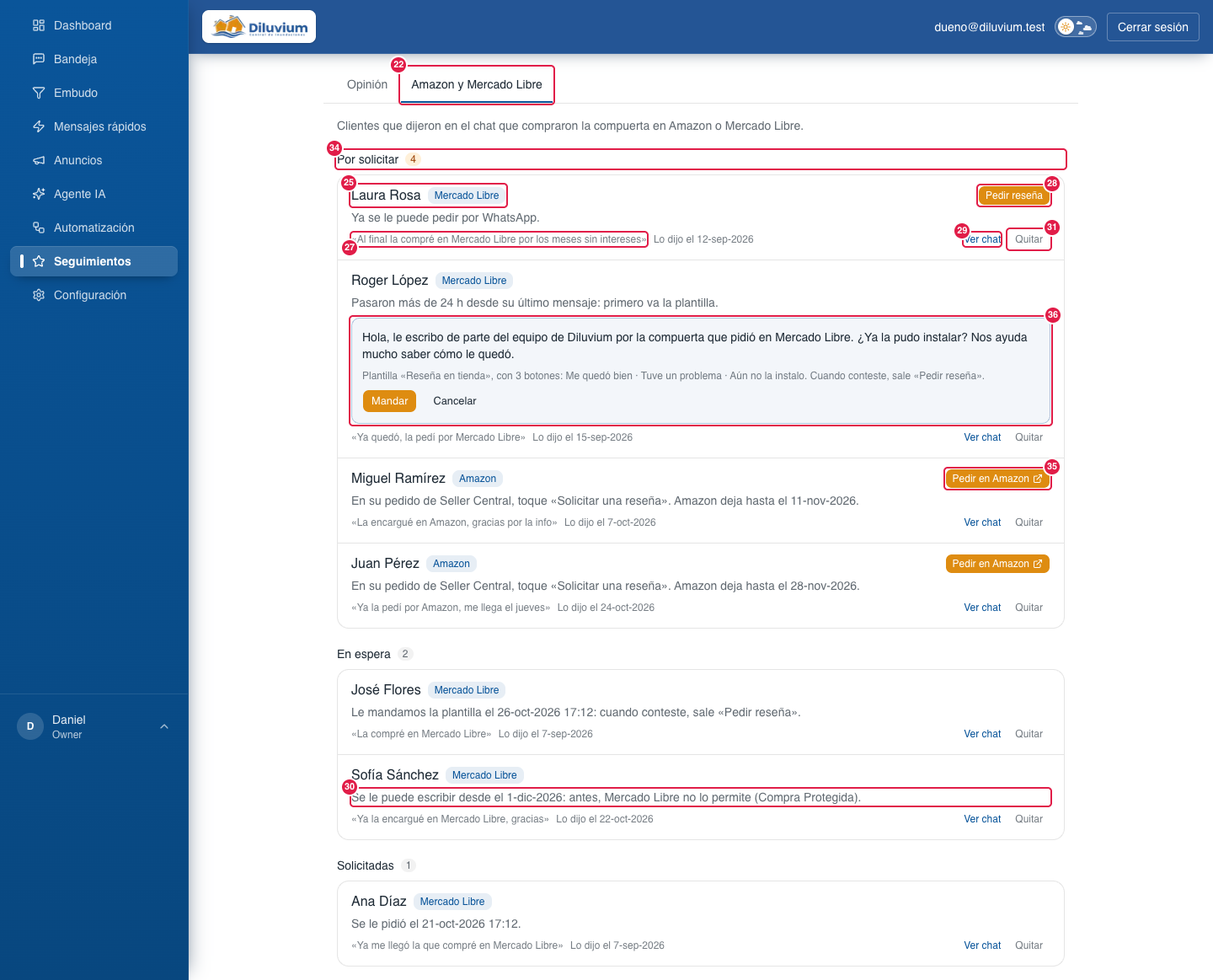
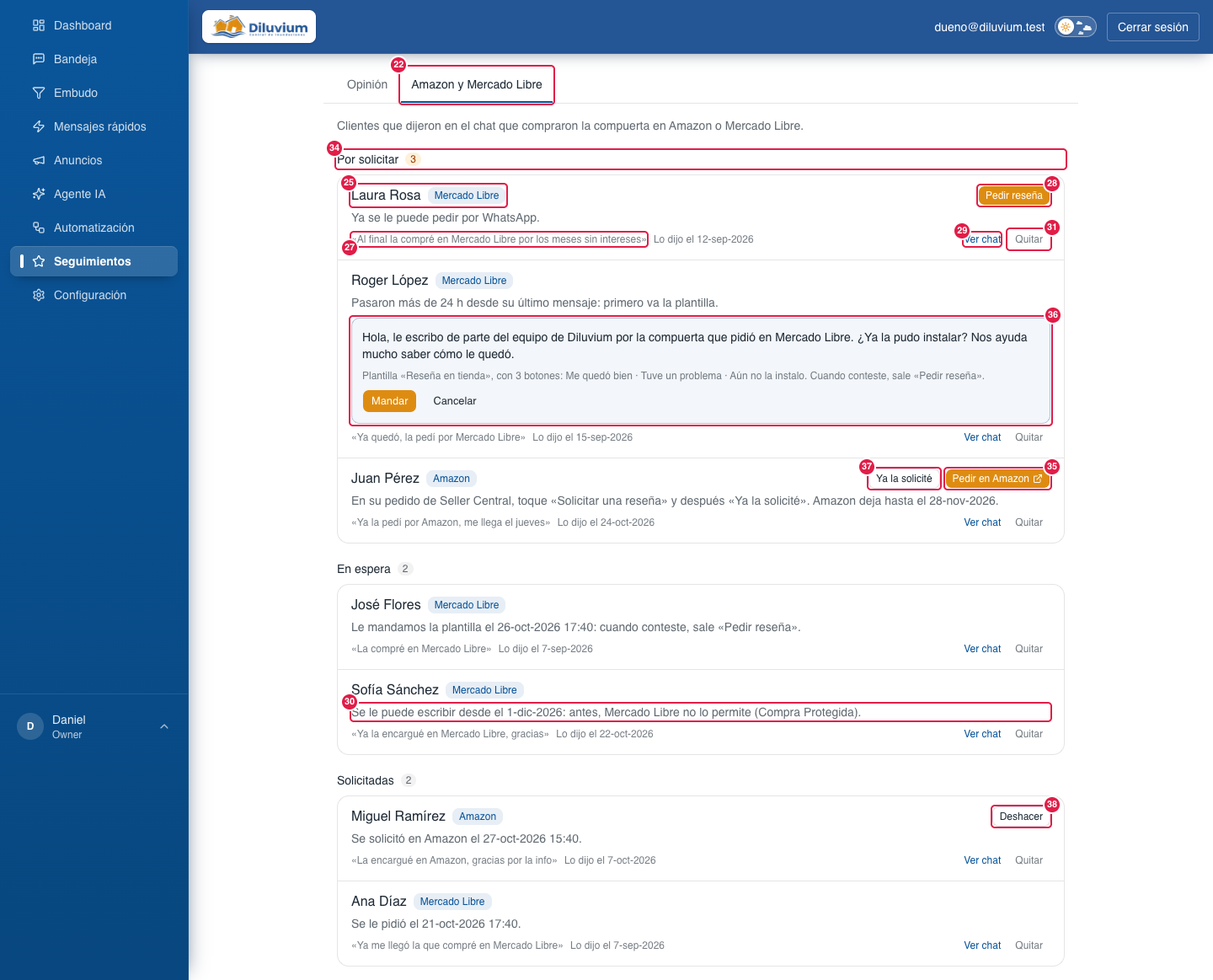
feat(seguimientos): Amazon — «Ya la solicité» con confirmación y «Deshacer»
La reseña de Amazon se pide en Seller Central, fuera del CRM; el dueño necesita dejar constancia (ya pidió la de un
cliente). Después de tocar «Sí» en Amazon, «Ya la solicité» pregunta con el aviso de arriba del CRM y pasa al cliente a
Solicitadas («Se solicitó en Amazon el …»); ahí «Deshacer» lo regresa a Por solicitar (regresarAPorPedir: solo Amazon y
solo si estaba solicitada). Una de Amazon solicitada se queda en Solicitadas aunque pase su plazo. Mapa 3.11 (33, 34 y 35
al día; nuevos 37 y 38) y captura 17; opiniones.md § 7.

diff --git a/app/(app)/seguimientos/_components/tiendas-panel.tsx b/app/(app)/seguimientos/_components/tiendas-panel.tsx
@@ -6,7 +6,7 @@ import { useRouter } from "next/navigation";
 import { ExternalLink } from "lucide-react";
 import { Button, buttonVariants } from "@/components/ui/button";
 import { TopConfirm, TopNotice } from "@/components/ui/top-confirm";
-import { mandarPlantillaResena, pedirResena, quitarResena } from "@/lib/actions/resenas-tienda";
+import { deshacerSolicitada, mandarPlantillaResena, pedirResena, quitarResena, yaLaSolicite } from "@/lib/actions/resenas-tienda";
 import { cn } from "@/lib/utils";
 import { SELLER_CENTRAL_PEDIDOS, type ResenaVista, type SeccionResena } from "@/lib/resenas-tienda/vista";
 import { TONOS } from "./opinion-panel";
@@ -14,7 +14,8 @@ import { TONOS } from "./opinion-panel";
 // Seguimientos › Amazon y Mercado Libre (27-oct-2026, docs/opiniones.md): los clientes que
 // dijeron en el chat que compraron en una de esas tiendas (los anota el lector), en tres
 // secciones según lo que se puede hacer hoy y con UNA acción cada uno. Amazon se pide en Seller
-// Central; Mercado Libre, con el texto fijo o la plantilla, cuando su tienda lo permite.
+// Central y aquí se marca «Ya la solicité» (pregunta antes; en Solicitadas tiene «Deshacer»);
+// Mercado Libre, con el texto fijo o la plantilla, cuando su tienda lo permite.
 const SECCIONES: ReadonlyArray<{ id: SeccionResena; titulo: string }> = [
   { id: "pedir", titulo: "Por solicitar" },
   { id: "espera", titulo: "En espera" },
@@ -29,7 +30,8 @@ export function TiendasPanel({ resenas, puedeEditar }: { resenas: ResenaVista[];
   const [aviso, setAviso] = useState<string | null>(null);
   const [listo, setListo] = useState<string | null>(null);
   const [viendo, setViendo] = useState<string | null>(null);
-  const [quitando, setQuitando] = useState<ResenaVista | null>(null);
+  // Lo que pide confirmación con el aviso de arriba: quitarlo de la lista o marcar la de Amazon.
+  const [confirmando, setConfirmando] = useState<{ que: "quitar" | "solicitada"; r: ResenaVista } | null>(null);
 
   function correr(accion: () => Promise<{ ok: true } | { ok: false; message: string }>, hecho: string) {
     setAviso(null);
@@ -38,7 +40,7 @@ export function TiendasPanel({ resenas, puedeEditar }: { resenas: ResenaVista[];
       const r = await accion();
       if (r.ok) {
         setViendo(null);
-        setQuitando(null);
+        setConfirmando(null);
         setListo(hecho);
         router.refresh();
       } else setAviso(r.message);
@@ -88,7 +90,9 @@ export function TiendasPanel({ resenas, puedeEditar }: { resenas: ResenaVista[];
                     viendo={viendo === r.id}
                     onVer={() => setViendo(viendo === r.id ? null : r.id)}
                     onMandar={() => mandar(r)}
-                    onQuitar={() => setQuitando(r)}
+                    onQuitar={() => setConfirmando({ que: "quitar", r })}
+                    onSolicitada={() => setConfirmando({ que: "solicitada", r })}
+                    onDeshacer={() => correr(() => deshacerSolicitada({ id: r.id }), `${r.titulo} regresó a «Por solicitar».`)}
                   />
                 ))}
               </ul>
@@ -97,19 +101,31 @@ export function TiendasPanel({ resenas, puedeEditar }: { resenas: ResenaVista[];
         })
       )}
 
-      {quitando && (
+      {confirmando?.que === "quitar" && (
         <TopConfirm
-          title={`¿Quitar a ${quitando.titulo} de la lista?`}
+          title={`¿Quitar a ${confirmando.r.titulo} de la lista?`}
           confirmLabel="Quitar"
           pendingLabel="Quitando…"
           pending={ocupado}
-          onConfirm={() => correr(() => quitarResena({ id: quitando.id }), `${quitando.titulo} salió de la lista.`)}
-          onCancel={() => setQuitando(null)}
+          onConfirm={() => correr(() => quitarResena({ id: confirmando.r.id }), `${confirmando.r.titulo} salió de la lista.`)}
+          onCancel={() => setConfirmando(null)}
         >
           No se le pedirá la reseña y el Agente IA ya no lo vuelve a anotar.
         </TopConfirm>
       )}
-      <TopNotice message={quitando ? null : listo} />
+      {confirmando?.que === "solicitada" && (
+        <TopConfirm
+          title={`¿Ya tocaste «Sí» en Amazon para el pedido de ${confirmando.r.titulo}?`}
+          confirmLabel="Sí, ya la solicité"
+          pendingLabel="Guardando…"
+          pending={ocupado}
+          onConfirm={() => correr(() => yaLaSolicite({ id: confirmando.r.id }), `${confirmando.r.titulo} pasó a «Solicitadas».`)}
+          onCancel={() => setConfirmando(null)}
+        >
+          Pasa a «Solicitadas». Amazon deja pedirla una sola vez por pedido.
+        </TopConfirm>
+      )}
+      <TopNotice message={confirmando ? null : listo} />
     </div>
   );
 }
@@ -122,6 +138,8 @@ function Fila({
   onVer,
   onMandar,
   onQuitar,
+  onSolicitada,
+  onDeshacer,
 }: {
   r: ResenaVista;
   puedeEditar: boolean;
@@ -130,6 +148,8 @@ function Fila({
   onVer: () => void;
   onMandar: () => void;
   onQuitar: () => void;
+  onSolicitada: () => void;
+  onDeshacer: () => void;
 }) {
   return (
     <li className="flex flex-col gap-1 px-4 py-3">
@@ -138,7 +158,21 @@ function Fila({
           <span className="truncate">{r.titulo}</span>
           <span className={`shrink-0 rounded-md px-2 py-0.5 text-xs font-normal ${TONOS.marca}`}>{r.tienda}</span>
         </p>
-        {puedeEditar && <Accion r={r} ocupado={ocupado} viendo={viendo} onVer={onVer} />}
+        {puedeEditar && (
+          <span className="flex shrink-0 items-center gap-1.5">
+            {r.marca === "solicitada" && (
+              <Button variant="outline" size="xs" disabled={ocupado} onClick={onSolicitada}>
+                Ya la solicité
+              </Button>
+            )}
+            {r.marca === "deshacer" && (
+              <Button variant="outline" size="xs" disabled={ocupado} onClick={onDeshacer}>
+                Deshacer
+              </Button>
+            )}
+            <Accion r={r} ocupado={ocupado} viendo={viendo} onVer={onVer} />
+          </span>
+        )}
       </div>
       <p className="text-sm text-foreground/70">{r.aviso}</p>
 

diff --git a/lib/resenas-tienda/vista.ts b/lib/resenas-tienda/vista.ts
@@ -1,6 +1,7 @@
 // Cómo se ve cada cliente en Seguimientos › Amazon y Mercado Libre (docs/opiniones.md § Amazon
 // y Mercado Libre). Puro; el servidor lo arma y el panel solo pinta. Cada cliente cae en UNA
-// sección con UNA acción, según las reglas de su tienda (sin marcarlo a mano).
+// sección con UNA acción, según las reglas de su tienda. Solo la de Amazon se marca a mano («Ya la
+// solicité», con su «Deshacer»), porque se pide fuera del CRM.
 import { zoneForPhone } from "@/lib/followups/timezone";
 import { formatMazatlan } from "@/lib/historial/labels";
 import { canSendFreeForm } from "@/lib/messaging/rules";
@@ -8,11 +9,14 @@ import { mensajeResena, textoPlantillaResena } from "./mensaje";
 import type { ResenaFila } from "./queries";
 import { TIENDA_NOMBRE } from "./tiendas";
 
-/** Por solicitar: se puede hoy. En espera: todavía no (dice desde cuándo o qué falta). Solicitadas: salió el texto. */
+/** Por solicitar: se puede hoy. En espera: todavía no (dice desde cuándo o qué falta). Solicitadas: salió el texto o se solicitó en Amazon. */
 export type SeccionResena = "pedir" | "espera" | "pedida";
 
 /** amazon = abrir Seller Central; texto = mandar el texto fijo; plantilla = mandar «Reseña en tienda». */
 export type AccionResena = "amazon" | "texto" | "plantilla";
+
+/** Solo Amazon: «Ya la solicité» (después de pedirla en Seller Central) y su «Deshacer». */
+export type MarcaResena = "solicitada" | "deshacer";
 
 export type ResenaVista = {
   id: string;
@@ -23,6 +27,7 @@ export type ResenaVista = {
   dicho: string;
   seccion: SeccionResena;
   accion: AccionResena | null;
+  marca: MarcaResena | null;
   /** Una línea: qué hacer o por qué todavía no. */
   aviso: string;
   /** Lo que saldría (texto o plantilla), para verlo antes de mandarlo. */
@@ -57,7 +62,7 @@ const DIA_MS = 24 * 60 * 60 * 1000;
 const masDias = (at: Date, dias: number) => new Date(at.getTime() + dias * DIA_MS);
 const soloFecha = (at: Date) => formatMazatlan(at).split(" ")[0];
 
-type Paso = { seccion: SeccionResena; accion: AccionResena | null; aviso: string; orden: number };
+type Paso = { seccion: SeccionResena; accion: AccionResena | null; marca?: MarcaResena; aviso: string; orden: number };
 
 /** Dónde está cada cliente hoy. null = de Amazon y ya pasó su plazo: ya no sale en la lista. */
 export function pasoDe(
@@ -65,12 +70,18 @@ export function pasoDe(
   now: Date,
 ): Paso | null {
   if (f.tienda === "amazon") {
+    // Amazon la deja pedir una sola vez por pedido: ya marcada, se queda en Solicitadas.
+    if (f.estado !== "por_pedir") {
+      const cuando = f.pedidaAt ?? f.createdAt;
+      return { seccion: "pedida", accion: null, marca: "deshacer", aviso: `Se solicitó en Amazon el ${formatMazatlan(cuando)}.`, orden: -cuando.getTime() };
+    }
     const hasta = masDias(f.createdAt, DIAS_AMAZON);
     if (now >= hasta) return null;
     return {
       seccion: "pedir",
       accion: "amazon",
-      aviso: `En su pedido de Seller Central, toque «Solicitar una reseña». Amazon deja hasta el ${soloFecha(hasta)}.`,
+      marca: "solicitada",
+      aviso: `En su pedido de Seller Central, toque «Solicitar una reseña» y después «Ya la solicité». Amazon deja hasta el ${soloFecha(hasta)}.`,
       orden: hasta.getTime(),
     };
   }
@@ -127,6 +138,7 @@ export function resenaVista(f: ResenaFila, now: Date): ResenaVista | null {
     frase: f.frase,
     dicho: `Lo dijo el ${soloFecha(f.createdAt)}`,
     ...paso,
+    marca: paso.marca ?? null,
     mensaje:
       paso.accion === "texto"
         ? mensajeResena(f.tienda, now, zoneForPhone(f.telefono))

diff --git a/lib/actions/resenas-tienda.ts b/lib/actions/resenas-tienda.ts
@@ -2,7 +2,8 @@
 
 // Acciones de Seguimientos › Amazon y Mercado Libre (docs/opiniones.md § Amazon y Mercado
 // Libre). Solo Mercado Libre se pide por WhatsApp: el texto fijo con la ventana abierta o la
-// plantilla «Reseña en tienda» con la ventana cerrada (la de Amazon se pide en Seller Central).
+// plantilla «Reseña en tienda» con la ventana cerrada. La de Amazon se pide en Seller Central y
+// aquí solo se marca («Ya la solicité») o se deshace.
 // Cada acción revisa en el servidor que su paso sea el de hoy (`pasoDe`). La organización sale
 // de la sesión; mismos permisos que Opinión (ACL `opinion`).
 import { revalidatePath } from "next/cache";
@@ -21,7 +22,7 @@ import { syncTemplatesForOrg } from "@/lib/messaging/templates";
 import { enqueueOutboxSend } from "@/lib/queue/outbox";
 import { mensajeResena } from "@/lib/resenas-tienda/mensaje";
 import { plantillaResenaId, resenaTienda, type ResenaFila } from "@/lib/resenas-tienda/queries";
-import { cambiarEstadoResena, marcarPedida } from "@/lib/resenas-tienda/store";
+import { cambiarEstadoResena, marcarPedida, regresarAPorPedir } from "@/lib/resenas-tienda/store";
 import { TIENDA_NOMBRE } from "@/lib/resenas-tienda/tiendas";
 import { pasoDe, type AccionResena } from "@/lib/resenas-tienda/vista";
 
@@ -141,6 +142,40 @@ export async function mandarPlantillaResena(input: { id: string }): Promise<Agen
     if (error instanceof ZodError) return { ok: false, message: "Cliente no válido." };
     logError("[resenas-tienda] no se pudo mandar la plantilla", error);
     return { ok: false, message: "No se pudo confirmar el envío. Revisa su chat antes de intentar otra vez." };
+  }
+}
+
+/** Amazon: el vendedor ya tocó «Solicitar una reseña» › «Sí» en Seller Central; pasa a Solicitadas. */
+export async function yaLaSolicite(input: { id: string }): Promise<AgentActionResult> {
+  try {
+    const listo = await paraAccion(input, "amazon");
+    if (!("m" in listo)) return listo;
+    const { m, fila, now } = listo;
+    await marcarPedida(m.organizationId, fila.id, m.userId, now);
+    revalidatePath(RUTA);
+    return { ok: true };
+  } catch (error) {
+    if (error instanceof ZodError) return { ok: false, message: "Cliente no válido." };
+    logError("[resenas-tienda] no se pudo marcar la de Amazon", error);
+    return { ok: false, message: "No se pudo guardar. Intenta de nuevo." };
+  }
+}
+
+/** Amazon: «Deshacer» de «Ya la solicité» (si se marcó por error); regresa a Por solicitar. */
+export async function deshacerSolicitada(input: { id: string }): Promise<AgentActionResult> {
+  try {
+    const { id } = idSchema.parse(input);
+    const m = await conPermiso();
+    if (!m) return { ok: false, message: "No tienes permiso para cambiar la lista." };
+    if (!(await regresarAPorPedir(m.organizationId, id))) {
+      return { ok: false, message: "Ese cliente ya no está en Solicitadas." };
+    }
+    revalidatePath(RUTA);
+    return { ok: true };
+  } catch (error) {
+    if (error instanceof ZodError) return { ok: false, message: "Cliente no válido." };
+    logError("[resenas-tienda] no se pudo deshacer la de Amazon", error);
+    return { ok: false, message: "No se pudo guardar. Intenta de nuevo." };
   }
 }
 

diff --git a/lib/resenas-tienda/vista.test.ts b/lib/resenas-tienda/vista.test.ts
@@ -27,17 +27,29 @@ function fila(over: Partial<ResenaFila> = {}): ResenaFila {
   };
 }
 
-describe("Amazon: se pide en Seller Central, sin marcar nada a mano", () => {
-  it("sale para pedir con el botón a Seller Central y la fecha límite, aunque alguien la haya marcado como pedida", () => {
-    for (const estado of ["por_pedir", "pedida"] as const) {
-      const v = resenaVista(fila({ tienda: "amazon", estado, createdAt: new Date("2026-10-13T21:00:00Z"), frase: "Disculpe lo pedí por Amazon" }), NOW);
-      expect(v).toMatchObject({ tienda: "Amazon", seccion: "pedir", accion: "amazon", mensaje: null });
-      expect(v?.aviso).toBe("En su pedido de Seller Central, toque «Solicitar una reseña». Amazon deja hasta el 17-nov-2026.");
+describe("Amazon: se pide en Seller Central y aquí se marca", () => {
+  const amazon = { tienda: "amazon" as const, createdAt: new Date("2026-10-13T21:00:00Z"), frase: "Disculpe lo pedí por Amazon" };
+
+  it("por solicitar: botón a Seller Central, «Ya la solicité» y la fecha límite", () => {
+    const v = resenaVista(fila(amazon), NOW);
+    expect(v).toMatchObject({ tienda: "Amazon", seccion: "pedir", accion: "amazon", marca: "solicitada", mensaje: null });
+    expect(v?.aviso).toBe("En su pedido de Seller Central, toque «Solicitar una reseña» y después «Ya la solicité». Amazon deja hasta el 17-nov-2026.");
+  });
+
+  it("ya solicitada: en Solicitadas con la fecha y «Deshacer», aunque haya pasado su plazo", () => {
+    const pedida = { ...amazon, estado: "pedida" as const, pedidaAt: new Date("2026-10-27T23:37:00Z") };
+    for (const now of [NOW, new Date("2026-12-01T00:00:00Z")]) {
+      expect(resenaVista(fila(pedida), now)).toMatchObject({ seccion: "pedida", accion: null, marca: "deshacer", aviso: "Se solicitó en Amazon el 27-oct-2026 16:37." });
     }
   });
 
-  it("pasado su plazo (35 días desde que lo dijo) ya no sale", () => {
+  it("pasado su plazo (35 días desde que lo dijo) sin solicitar, ya no sale", () => {
     expect(resenaVista(fila({ tienda: "amazon", createdAt: new Date(NOW.getTime() - 35 * DIA) }), NOW)).toBeNull();
+  });
+
+  it("Mercado Libre no se marca a mano", () => {
+    expect(resenaVista(fila(), NOW)?.marca).toBeNull();
+    expect(resenaVista(fila({ estado: "pedida", pedidaAt: NOW }), NOW)?.marca).toBeNull();
   });
 });
 

diff --git a/lib/resenas-tienda/store.int.test.ts b/lib/resenas-tienda/store.int.test.ts
@@ -104,6 +104,21 @@ describe.skipIf(!TEST_DATABASE_URL)("reseñas en Amazon y Mercado Libre (Postgre
     expect(await store.cambiarEstadoResena(OTRA, pedro.id, "la_dejo")).toBe(false);
   });
 
+  it("«Deshacer» de Amazon: solo una de Amazon ya solicitada regresa a por pedir, y nunca la de otra organización", async () => {
+    await anotar();
+    const [fila] = await queries.listarResenasTienda(ORG);
+    expect(await store.regresarAPorPedir(ORG, fila.id, NOW)).toBe(false); // todavía no estaba solicitada
+    await store.marcarPedida(ORG, fila.id, "u_rt", NOW);
+    expect(await store.regresarAPorPedir(OTRA, fila.id, NOW)).toBe(false);
+    expect(await store.regresarAPorPedir(ORG, fila.id, NOW)).toBe(true);
+    expect(await queries.resenaTienda(ORG, fila.id)).toMatchObject({ estado: "por_pedir", pedidaAt: null });
+
+    await anotar({ contactId: "c_lucia", conversationId: null, tienda: "mercado_libre", frase: null });
+    const lucia = (await queries.listarResenasTienda(ORG)).find((f) => f.contactId === "c_lucia")!;
+    await store.marcarPedida(ORG, lucia.id, "u_rt", NOW);
+    expect(await store.regresarAPorPedir(ORG, lucia.id, NOW)).toBe(false); // Mercado Libre: el texto ya salió
+  });
+
   it("sabe cuándo salió la plantilla «Reseña en tienda» en ese chat (no las de antes ni las que fallaron)", async () => {
     await anotar({ tienda: "mercado_libre", frase: "Ya la pedí en Mercado Libre" });
     const plantilla = (id: string, at: Date, status: "sent" | "failed", templateName = "resena_tienda") => ({

diff --git a/lib/resenas-tienda/store.ts b/lib/resenas-tienda/store.ts
@@ -81,3 +81,20 @@ export async function marcarPedida(organizationId: string, id: string, userId: s
     .set({ estado: "pedida", pedidaAt: now, pedidaPorUserId: userId, updatedAt: now })
     .where(and(eq(resenasTienda.id, id), eq(resenasTienda.organizationId, organizationId)));
 }
+
+/** «Deshacer» de Amazon: la que se marcó como solicitada por error regresa a por pedir. */
+export async function regresarAPorPedir(organizationId: string, id: string, now = new Date()): Promise<boolean> {
+  const filas = await db
+    .update(resenasTienda)
+    .set({ estado: "por_pedir", pedidaAt: null, pedidaPorUserId: null, updatedAt: now })
+    .where(
+      and(
+        eq(resenasTienda.id, id),
+        eq(resenasTienda.organizationId, organizationId),
+        eq(resenasTienda.tienda, "amazon"),
+        eq(resenasTienda.estado, "pedida"),
+      ),
+    )
+    .returning({ id: resenasTienda.id });
+  return filas.length > 0;
+}

diff --git a/docs/mapa-crm/1-glosario.md b/docs/mapa-crm/1-glosario.md
@@ -59,7 +59,7 @@
 | **Seguimiento del Agente IA** | Cuando un chat se queda parado (el último mensaje es nuestro y el cliente no contesta), el Agente IA en segundo plano anota **qué quedó pendiente** (uno de 10 casos: faltan medidas, cotización sin respuesta, pago pendiente…), **a qué hora** escribirle (la del caso, en la hora del cliente según su lada, de 7:00 a 21:00) y un **borrador**. Se ve en la píldora 🤖 de la caja para escribir, que **siempre está** en todos los chats (7-oct-2026): sin nada que seguir sale el **robot dormido gris**, sin palabra, y su ventana explica por qué. Hasta 3 intentos (día 1 con texto antes de que cierre la ventana, día 2 y día 9 con plantilla); si el cliente escribe, se cancela solo. Solo a números de México (+52) y +1: a una lada de otro país nunca se le da seguimiento (13-oct-2026). Si un vendedor puso **Pausar agente** a mano, queda como **sugerencia**. Un seguimiento que ya mandó un **vendedor** (horas después, sin respuesta) **cuenta como intento**: el CRM programa el siguiente, no otro encima. Si el contacto pasa a **Compra**, se cancela en ese momento. El borrador nunca repite una pregunta que ya se hizo ni el precio que ya se le dio, y hace una sola pregunta. Con la ventana cerrada usa la plantilla que **mejor encaje con cómo quedó el chat** (seg_precio, seg_informacion, seg_info_duda, seg_valorar, seg_medidas, seg_asesor, seg_objecion o el saludo; las 5 primeras dicen «…que nos comentó **anoche**» con el cuándo puesto por el CRM) en cuanto Meta la aprueba. Se enciende en Agente IA › Opciones › **Seguimientos del Agente IA** (84): **Ensayo** (de fábrica) calcula todo y lo muestra en la píldora sin mandar nada; **Real** lo manda a su hora como mensaje del Agente IA (sin pausarlo). Si el cliente contesta con el Agente IA en pausa automática, la conversación sigue con el Agente IA. Tras el último intento sin respuesta, la temperatura pasa a **frío**; en pago pendiente (24 h después del 2.º) y asesor sin respuesta (al final) deja la tarjeta amarilla. Si el cliente se dio de baja de las promociones (error 131050 de WhatsApp), ese contacto queda **sin seguimientos**: la píldora se pone roja («Se dio de baja») y su aviso se abre solo una vez, con **Volver a darle seguimiento** (Caja para escribir › 64). **Cancelar** apaga los seguimientos de ese chat hasta que alguien pulse **Reactivar seguimientos** (63). Qué casos están encendidos, qué intentos salen, a qué hora y qué busca cada uno, y el horario de los vendedores, se editan en Agente IA › **Seguimientos** (85; desde el 6-oct-2026). Diseño: `docs/seguimientos.md`. |
 | **Seguimientos (pestaña del menú)** | Lo que sigue **después de la compra** (8-oct-2026). Tiene dos subpestañas: **Opinión** y **Amazon y Mercado Libre** (27-oct-2026). Es otra cosa que Agente IA › Seguimientos (los mensajes que escribe el Agente IA cuando un chat se queda parado). Ver 3.11. |
 | **Opinión** | Formulario de 4 preguntas que el cliente contesta desde su celular en una **página aparte** del CRM, sin usuario ni contraseña (`…/opinion/<enlace>`): estrellas, «¿Qué le diría a alguien que está pensando comprarla?», si ya le tocó una lluvia y si se puede compartir su opinión (con su nombre, sin su nombre o no). Al final, para todos: mandar foto o video por WhatsApp, compartir con un vecino y reseña en Google. Cada enlace se contesta **una sola vez** y vence a los 60 días. Las respuestas se ven en Seguimientos › Opinión. Desde el 8-oct-2026, con **enlaces de prueba**; mandarlo a los clientes 7 días después de pagar el total (plantilla `opinion_compuerta`) viene después. Diseño: `docs/opiniones.md`. |
-| **Reseñas en Amazon y Mercado Libre** | Para el cliente que dijo en el chat que **ya compró** la compuerta en Amazon o Mercado Libre (27-oct-2026). El Agente IA en segundo plano lo anota al leer el chat, solo si el cliente nombra esa tienda, y aparece en Seguimientos › **Amazon y Mercado Libre**. Ahí cada cliente está en **Por solicitar**, **En espera** o **Solicitadas**, con una sola acción. A los de **Amazon** se les pide con **Pedir en Amazon** (Seller Central, «Solicitar una reseña»): Amazon no deja escribirles por fuera. A los de **Mercado Libre**, desde los 40 días (antes Mercado Libre no deja escribirles por fuera), un vendedor les manda un **texto fijo** (sin IA) que les pide su opinión con foto o video, sin ofrecer nada a cambio; si no han escrito en 24 h, primero la plantilla **Reseña en tienda**. Diseño: `docs/opiniones.md`. Ver 3.11 › 22–36. |
+| **Reseñas en Amazon y Mercado Libre** | Para el cliente que dijo en el chat que **ya compró** la compuerta en Amazon o Mercado Libre (27-oct-2026). El Agente IA en segundo plano lo anota al leer el chat, solo si el cliente nombra esa tienda, y aparece en Seguimientos › **Amazon y Mercado Libre**. Ahí cada cliente está en **Por solicitar**, **En espera** o **Solicitadas**, con una sola acción. A los de **Amazon** se les pide con **Pedir en Amazon** (Seller Central, «Solicitar una reseña») y luego se marca **Ya la solicité**: Amazon no deja escribirles por fuera. A los de **Mercado Libre**, desde los 40 días (antes Mercado Libre no deja escribirles por fuera), un vendedor les manda un **texto fijo** (sin IA) que les pide su opinión con foto o video, sin ofrecer nada a cambio; si no han escrito en 24 h, primero la plantilla **Reseña en tienda**. Diseño: `docs/opiniones.md`. Ver 3.11 › 22–38. |
 | **Código de recomendación** | El código de cada cliente (p. ej. DILU-4K7P) que va en el mensaje de «Compartir con un vecino»: cuando el vecino escribe, lo trae ya puesto. El premio y el canje en la página web se definen después. |
 | **Transcripción** | Texto de una nota de voz del cliente, escrito por el CRM; el agente lo lee para contestar. |
 | **Tarjeta amarilla / azul** | Colores de la tarjeta en el Embudo (regla del 28-sep-2026): **amarilla** = el agente necesita al vendedor (se quita contestando o con **Quitar tarjeta** del clic derecho); **azul** = el cliente escribió y nadie le ha contestado (se quita contestando —vendedor o agente—, con **Marcar como leído** o con **Quitar tarjeta**; abrir el chat no lo quita); **blanca** = nada pendiente. Al pasar el mouse la tarjeta se ilumina en **gris**, nunca en azul. |

diff --git a/docs/mapa-crm/3.11-seguimientos.md b/docs/mapa-crm/3.11-seguimientos.md
@@ -44,8 +44,8 @@ Lleva el número 3.11 porque se agregó después (los números no cambian).
 dijeron en el chat que **ya compraron** la compuerta en una de esas tiendas, para pedirles su reseña ahí. Los anota solo
 el Agente IA en segundo plano, con la misma lectura que llena el Detalle (sin gasto extra de IA), y solo si el cliente
 nombra esa tienda en el chat. Cada cliente cae en **una sección** según lo que se puede hacer hoy y tiene **una sola
-acción**; nada se marca a mano. **Amazon** no deja escribirle al comprador por fuera: se pide en Seller Central (35) y
-el cliente sale solo de la lista cuando Amazon ya no deja pedirla (35 días después de que lo dijo). **Mercado Libre** no
+acción**. **Amazon** no deja escribirle al comprador por fuera: se pide en Seller Central (35) y aquí se marca con «Ya
+la solicité» (37); si no se pide a tiempo, sale solo de la lista cuando Amazon ya no deja (35 días después de que lo dijo). **Mercado Libre** no
 deja escribirle por fuera hasta que vence Compra Protegida: se pide a los 40 días de que lo dijo, con un **texto fijo**
 (sin IA) si nos escribió hace poco (28) o, si no, primero con la plantilla **Reseña en tienda** (36).
 
@@ -64,14 +64,17 @@ deja escribirle por fuera hasta que vence Compra Protegida: se pide a los 40 dí
 | 30 | **Qué sigue** | Una línea bajo el nombre: qué hacer o por qué todavía no («Se le puede escribir desde el 12-nov-2026…», «Le mandamos la plantilla el…: cuando conteste, sale «Pedir reseña»», «Se le pidió el…»). | Todos |
 | 31 | **Quitar** | Antes «No compró ahí». Pregunta con el aviso de arriba del CRM; lo quita de la lista y el Agente IA ya no lo vuelve a anotar (si se equivocó o ya no se le va a pedir). | Todos |
 | 32 | ~~La dejó · No quiso~~ | Se quitó el 27-oct-2026 (decisión del dueño): el CRM no puede ver las reseñas de las tiendas. | — |
-| 33 | ~~Ya la pedí en Amazon~~ | Se quitó el 27-oct-2026 (decisión del dueño): en su lugar, 35. | — |
-| 34 | **Por solicitar · En espera · Solicitadas** | Las secciones, con cuántos hay en cada una. **Por solicitar**: se puede hoy. **En espera**: todavía no (Compra Protegida de Mercado Libre, o ya se mandó la plantilla y falta que conteste). **Solicitadas**: ya salió el texto. Las vacías no salen. | Todos |
-| 35 | **Pedir en Amazon** | Solo **Amazon**. Abre en otra pestaña los **pedidos enviados con Easy Ship** de Seller Central (los ya entregados a la paquetería): en su pedido se toca «Solicitar una reseña» › **Sí** (Amazon deja del día 5 al 30 después de la entrega; una por pedido). Debajo dice hasta qué fecha. | Todos |
+| 33 | ~~Ya la pedí en Amazon~~ | Se quitó el 27-oct-2026 (decisión del dueño; se marcaba con un clic y sin deshacer). Volvió el mismo día como 37, con confirmación y su «Deshacer» (38). | — |
+| 34 | **Por solicitar · En espera · Solicitadas** | Las secciones, con cuántos hay en cada una. **Por solicitar**: se puede hoy. **En espera**: todavía no (Compra Protegida de Mercado Libre, o ya se mandó la plantilla y falta que conteste). **Solicitadas**: ya salió el texto (Mercado Libre) o se marcó que se solicitó en Amazon (37). Las vacías no salen. | Todos |
+| 35 | **Pedir en Amazon** | Solo **Amazon**. Abre en otra pestaña los **pedidos enviados con Easy Ship** de Seller Central (los ya entregados a la paquetería): en su pedido se toca «Solicitar una reseña» › **Sí** (Amazon deja del día 5 al 30 después de la entrega; una por pedido). Después, aquí, 37. Debajo dice hasta qué fecha. | Todos |
 | 36 | **Mandar plantilla** | Solo **Mercado Libre** por WhatsApp, ya pasados los 40 días y con más de 24 h desde su último mensaje. Abre la plantilla **Reseña en tienda** tal cual saldría (con sus 3 botones: Me quedó bien · Tuve un problema · Aún no la instalo). **Mandar** la envía y el cliente pasa a **En espera** hasta que conteste; entonces sale «Pedir reseña» (28). | Todos |
+| 37 | **Ya la solicité** | Solo **Amazon**, junto a 35, después de pedirla en Seller Central. Pregunta con el aviso de arriba del CRM («¿Ya tocaste «Sí» en Amazon para el pedido de …?» › **Sí, ya la solicité**) y el cliente pasa a **Solicitadas** con «Se solicitó en Amazon el …». | Todos |
+| 38 | **Deshacer** | Solo **Amazon**, en **Solicitadas**: si se marcó por error, lo regresa a **Por solicitar**. | Todos |
 
 <sub>Para Code: rutas `/seguimientos` (`app/(app)/seguimientos/`; subpestañas en `lib/seguimientos/sections.ts`) y `/opinion/[token]` (pública, `app/opinion/[token]/`); la respuesta entra por `app/api/opinion/route.ts` (límite por IP); `lib/opiniones/` (`codigo`, `respuestas`, `enlaces`, `store`, `queries`, `vista`), `lib/actions/opiniones.ts`, ACL `opinion`; tablas `opiniones` y `opiniones_config` (migración 0064); diseño `docs/opiniones.md`. Amazon y Mercado Libre
 (`?seccion=tiendas`): `lib/resenas-tienda/` (`tiendas`, `mensaje`, `store`, `queries`, `vista`: sección y acción de
-cada cliente en `pasoDe`), `lib/actions/resenas-tienda.ts` (`pedirResena`, `mandarPlantillaResena`, `quitarResena`),
+cada cliente en `pasoDe`), `lib/actions/resenas-tienda.ts` (`pedirResena`, `mandarPlantillaResena`, `yaLaSolicite`,
+`deshacerSolicitada`, `quitarResena`),
 plantilla `resena_tienda` en `lib/templates/labels.ts`,
 campo `compro_en` del lector (`lib/ai/runtime/lector-core.ts`), tabla `resenas_tienda` y enlaces en `opiniones_config`
 (migración 0074).</sub>

diff --git a/docs/opiniones.md b/docs/opiniones.md
@@ -178,6 +178,11 @@ a la lista solo con OK aparte de escritura en producción.
   pide reseñas por su cuenta y sin costo; pedir varias veces por pedido es una infracción; y al usar el botón se acepta no
   mandar ninguna otra solicitud de reseña por el Servicio de mensajes de Amazon. Le llega al cliente un correo, en su
   idioma. Por eso: una sola vez por pedido y nunca, además, por WhatsApp.
+- **«Ya la solicité» y «Deshacer»** (27-oct-2026, OK del dueño): como la de Amazon se pide fuera del CRM, el vendedor la
+  marca a mano después de tocar «Sí» en Seller Central. Pregunta antes (TopConfirm) y en Solicitadas tiene «Deshacer»
+  (`regresarAPorPedir`: solo Amazon y solo si estaba solicitada). Es lo que faltaba con el primer «Ya la pedí en Amazon»:
+  se marcaba con un clic y no se podía regresar. Una de Amazon ya solicitada se queda en Solicitadas aunque pase su plazo.
 - **Se quitaron** (el dueño marcó por error una de Amazon como pedida al probar): «Ya la pedí en Amazon», «La dejó / No
   quiso», el estado de cada fila y la caja de enlaces. «No compró ahí» ahora es **Quitar**, con el aviso de arriba del CRM.
-  Las de Amazon ya no usan el estado: una marcada como pedida por error vuelve sola a «Por solicitar».
+  Las de Amazon ya no usaban el estado (una marcada como pedida por error volvía sola a «Por solicitar»); el mismo día
+  volvió con «Ya la solicité» (abajo).
